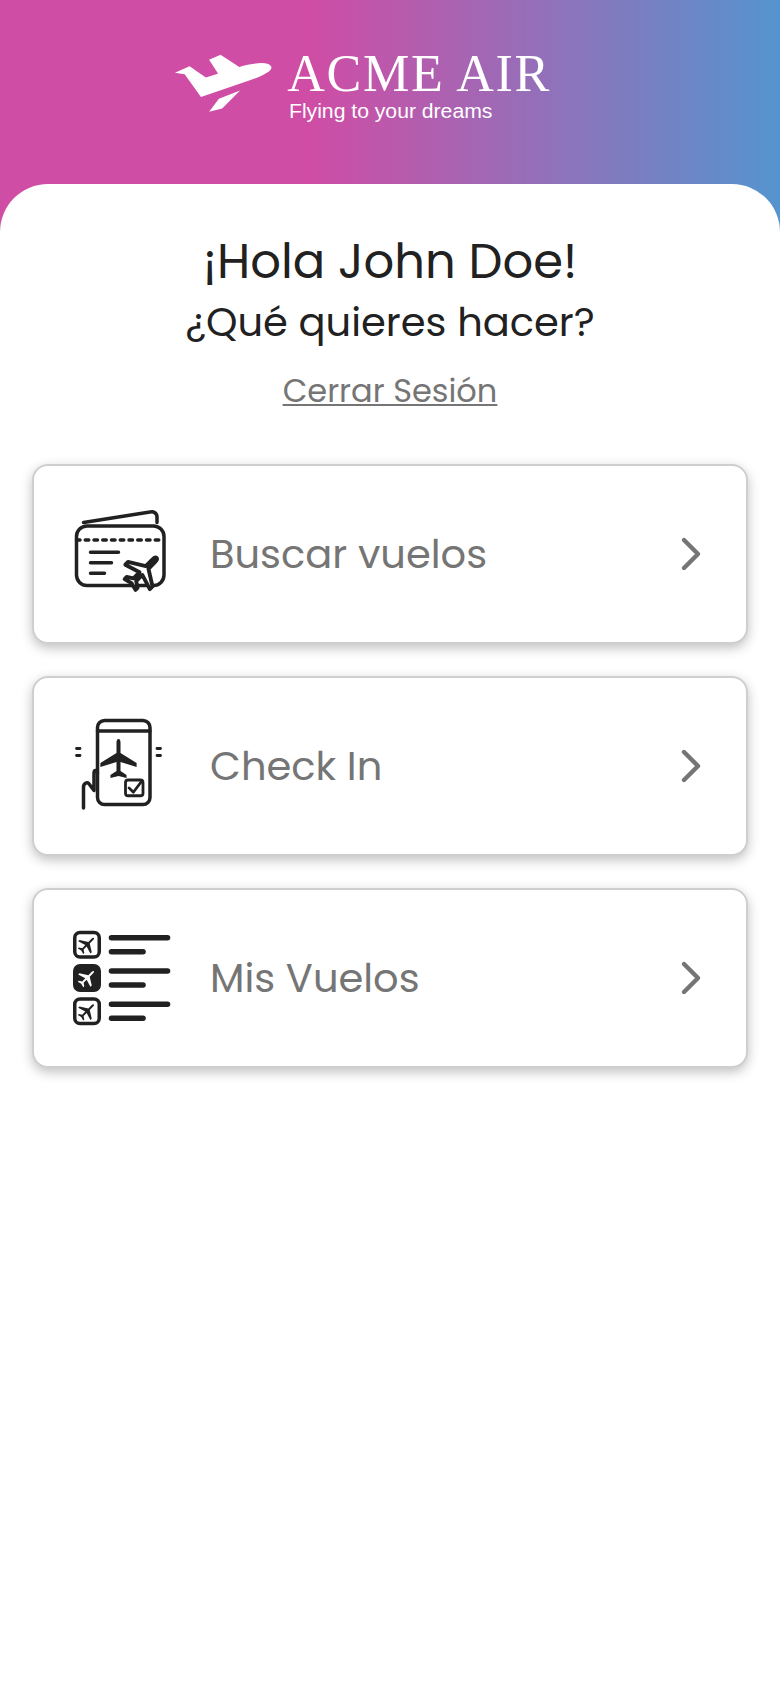
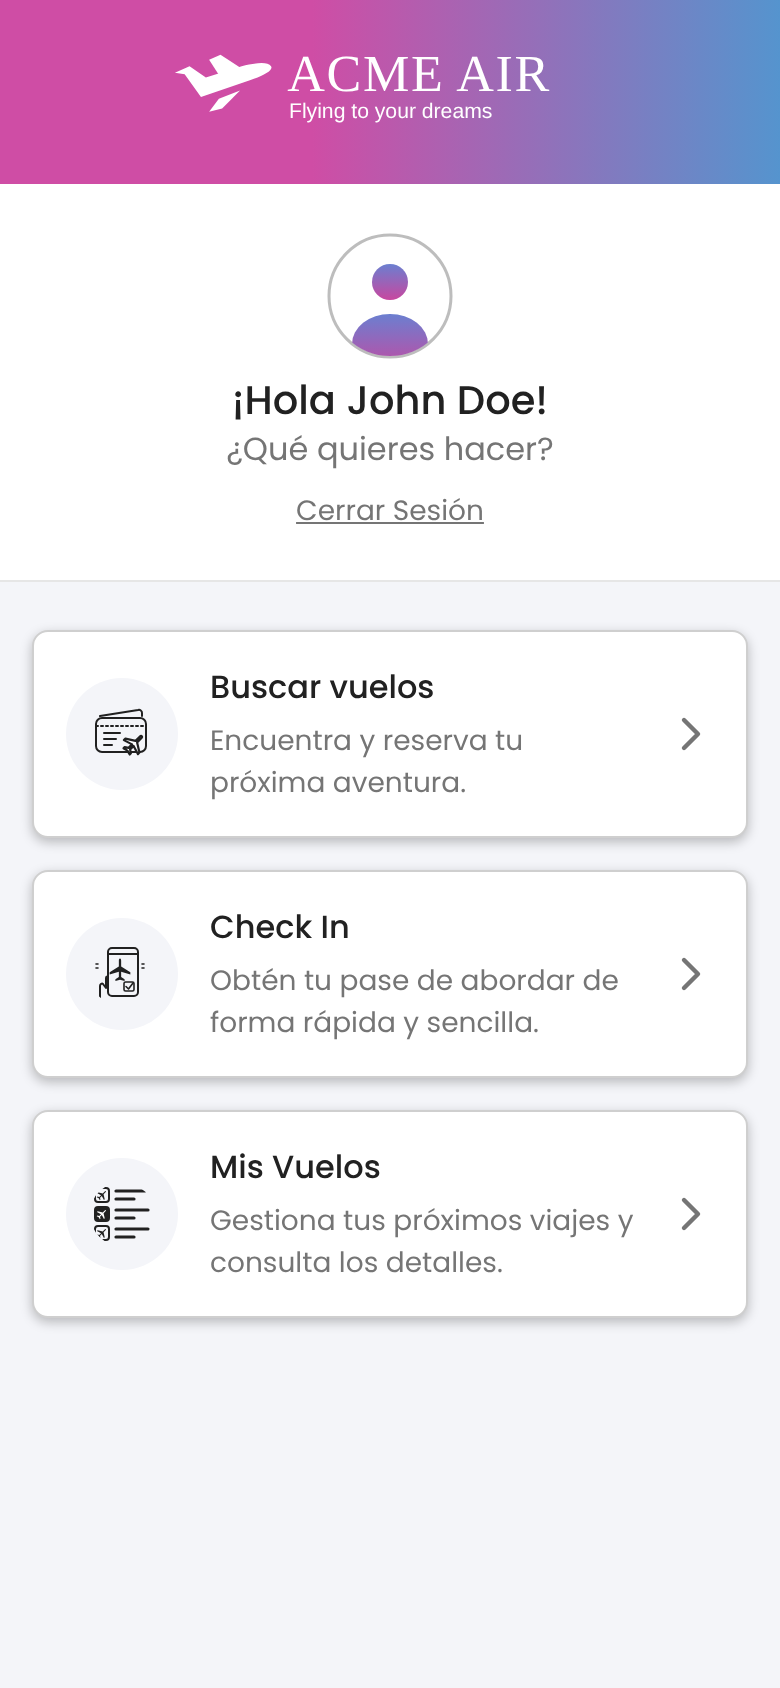
feat: menú con barra lateral adaptado a celular, tablet y escritorio
- Recupera el diseño del menú con perfil, accesos rápidos y tarjetas con
  el ícono en un círculo, y lo usa en todos los dispositivos.
- Celular: perfil arriba y tarjetas en una columna con descripción.
- Tablet (768 px): barra lateral de 14rem y tarjetas en dos columnas.
- Escritorio (1024 px): barra de 16rem, tarjetas más grandes, centradas
  en ancho y alto para no dejar espacio vacío.
- Pantallas grandes (1440 px): las tres tarjetas en una sola fila.
- Íconos alineados entre tarjetas aunque cambie el largo del texto.
- Actualiza las capturas del menú en el README.

diff --git a/css/responsive.css b/css/responsive.css
@@ -50,19 +50,181 @@
 
 /* --------------------------------------------------------------------------
    Menú principal · tablet y escritorio (768 px en adelante)
-   Se mantiene el mismo diseño del celular (hoja blanca centrada sobre el
-   degradado y opciones en lista) para que la vista sea igual en todos los
-   dispositivos. Solo se agrega la descripción debajo de cada opción.
+   El perfil pasa a ser una barra lateral a la izquierda y las tarjetas
+   ocupan el resto de la pantalla en una cuadrícula centrada en ancho y
+   alto: dos columnas y la tercera tarjeta a todo el ancho.
+   .menu usa display: contents para que sus hijos entren en la cuadrícula.
    -------------------------------------------------------------------------- */
 @media (min-width: 768px) {
+  .app--menu {
+    display: grid;
+    grid-template-columns: 14rem 1fr;
+    grid-template-rows: auto 1fr;
+    grid-template-areas:
+      "cabecera principal"
+      "perfil   principal";
+    padding: 0;
+  }
+
+  .app--menu .menu {
+    display: contents;
+  }
+
+  .app--menu .app-header {
+    grid-area: cabecera;
+    padding: var(--space-3);
+  }
+
+  .app--menu .app-header__logo {
+    width: 100%;
+    max-width: 12rem;
+    height: auto;
+  }
+
+  /* Barra lateral: perfil, accesos rápidos y cierre de sesión al final */
+  .menu__perfil {
+    grid-area: perfil;
+    padding: var(--space-4) var(--space-3);
+    border-bottom: 0;
+    border-right: 1px solid var(--color-divider);
+  }
+
+  .menu__avatar {
+    width: 4.5rem;
+    height: 4.5rem;
+  }
+
+  .menu__saludo {
+    font-size: var(--font-size-base);
+  }
+
+  .menu__pregunta {
+    margin-bottom: var(--space-4);
+    font-size: var(--font-size-sm);
+  }
+
+  .menu__nav {
+    display: block;
+    align-self: stretch;
+  }
+
+  .menu__nav-lista {
+    display: flex;
+    flex-direction: column;
+    gap: var(--space-1);
+  }
+
+  .menu__nav-enlace {
+    display: flex;
+    align-items: center;
+    gap: var(--space-2);
+    padding: var(--space-2) var(--space-3);
+    font-size: var(--font-size-sm);
+    color: var(--color-text);
+    text-align: left;
+    text-decoration: none;
+    border-radius: var(--radius-md);
+  }
+
+  .menu__nav-enlace:hover {
+    background-color: var(--menu-fondo);
+  }
+
+  .menu__nav-icono {
+    width: 1.5rem;
+    height: 1.5rem;
+  }
+
+  .menu__salir {
+    margin-top: auto;
+    padding-top: var(--space-4);
+  }
+
+  /* Tarjetas centradas en el espacio que queda a la derecha */
+  .menu__principal {
+    display: flex;
+    flex-direction: column;
+    justify-content: center;
+    grid-area: principal;
+    padding: var(--space-5) var(--space-4);
+  }
+
+  .menu__opciones {
+    display: grid;
+    grid-template-columns: repeat(2, 1fr);
+    gap: var(--space-4);
+    width: 100%;
+    max-width: 64rem;
+    margin: 0 auto;
+  }
+
+  .menu__opciones li:last-child {
+    grid-column: 1 / -1;
+  }
+
   .menu__opcion {
-    padding: var(--space-3) var(--space-4);
+    flex-direction: column;
+    justify-content: flex-start;
+    height: 100%;
+    padding: var(--space-4) var(--space-3);
+    text-align: center;
+  }
+
+  .menu__texto {
+    flex: 0 1 auto;
+  }
+
+  .menu__chevron {
+    display: none;
+  }
+}
+
+/* Escritorio: barra lateral más ancha y más aire alrededor de las tarjetas */
+@media (min-width: 1024px) {
+  .app--menu {
+    grid-template-columns: 16rem 1fr;
+    padding: 0;
+  }
+
+  .menu__principal {
+    padding: var(--space-5);
+  }
+
+  .menu__opcion {
+    padding: var(--space-5) var(--space-4);
+  }
+
+  .menu__icono {
+    width: 4rem;
+    height: 4rem;
+  }
+
+  .menu__titulo {
+    font-size: var(--font-size-lg);
   }
 
   .menu__descripcion {
-    display: block;
-    margin-top: var(--space-1);
-    font-size: var(--font-size-sm);
+    font-size: var(--font-size-base);
+  }
+}
+
+/* Pantallas grandes: las tres tarjetas en una fila para llenar el ancho */
+@media (min-width: 1440px) {
+  .app--menu {
+    grid-template-columns: 18rem 1fr;
+  }
+
+  .menu__principal {
+    padding: var(--space-5) calc(var(--space-5) * 2);
+  }
+
+  .menu__opciones {
+    grid-template-columns: repeat(3, 1fr);
+    max-width: 80rem;
+  }
+
+  .menu__opciones li:last-child {
+    grid-column: auto;
   }
 }
 

diff --git a/css/layout.css b/css/layout.css
@@ -103,28 +103,71 @@
 /* ===== B: menú y búsqueda (menu, buscar-vuelos) ===== */
 
 /* --------------------------------------------------------------------------
-   Menú principal (menu.html) · vista móvil
-   La descripción de cada opción se muestra desde tablet (ver responsive.css).
+   Menú principal (menu.html) · celular
+   Mismo diseño en todos los dispositivos: fondo gris claro, encabezado con
+   el degradado, perfil en blanco y opciones como tarjetas con el ícono en
+   un círculo. En celular el perfil va arriba y las tarjetas en una columna;
+   desde tablet el perfil pasa a ser una barra lateral (ver responsive.css).
    -------------------------------------------------------------------------- */
+.app--menu {
+  --menu-fondo: #f4f5f9;
+
+  background: var(--menu-fondo);
+}
+
+.app--menu .app-header {
+  background: var(--gradient-brand);
+}
+
+/* La hoja blanca del resto de vistas no se usa aquí */
+.app--menu .menu {
+  display: flex;
+  flex: 1;
+  flex-direction: column;
+  padding: 0;
+  background: none;
+  border-radius: 0;
+}
+
 .menu__perfil {
   display: flex;
   flex-direction: column;
   align-items: center;
-  margin-bottom: var(--space-4);
+  padding: var(--space-4) var(--space-3);
   text-align: center;
+  background-color: var(--color-surface);
+  border-bottom: 1px solid var(--color-divider);
 }
 
-.menu__descripcion {
-  display: none;
+.menu__avatar {
+  width: 4rem;
+  height: 4rem;
+  margin-bottom: var(--space-2);
 }
 
 .menu__saludo {
-  font-size: var(--font-size-xl);
+  font-size: var(--font-size-lg);
+  font-weight: var(--font-weight-medium);
 }
 
 .menu__pregunta {
   margin-bottom: var(--space-2);
-  font-size: var(--font-size-lg);
+  font-size: var(--font-size-base);
+  color: var(--color-text-muted);
+}
+
+/* Los accesos rápidos repiten las tarjetas: solo caben en la barra lateral */
+.menu__nav {
+  display: none;
+}
+
+.menu__salir {
+  font-size: var(--font-size-sm);
+}
+
+.menu__principal {
+  flex: 1;
+  padding: var(--space-4) var(--space-3);
 }
 
 .menu__opciones {
@@ -146,6 +189,9 @@
   flex-shrink: 0;
   width: 3.5rem;
   height: 3.5rem;
+  padding: 0.75rem;
+  background-color: var(--menu-fondo);
+  border-radius: 50%;
 }
 
 .menu__texto {
@@ -154,7 +200,15 @@
 
 .menu__titulo {
   display: block;
-  font-size: var(--font-size-lg);
+  font-size: var(--font-size-base);
+  font-weight: var(--font-weight-medium);
+  color: var(--color-text);
+}
+
+.menu__descripcion {
+  display: block;
+  margin-top: var(--space-1);
+  font-size: var(--font-size-sm);
 }
 
 .menu__chevron {
@@ -164,7 +218,8 @@
 }
 
 /* Interacción: las tarjetas crecen un poco al pasar el cursor */
-.menu__opcion {
+.menu__opcion,
+.menu__nav-enlace {
   transition: transform var(--transition-base), box-shadow var(--transition-base),
     background-color var(--transition-base);
 }
@@ -179,7 +234,8 @@
 }
 
 @media (prefers-reduced-motion: reduce) {
-  .menu__opcion {
+  .menu__opcion,
+  .menu__nav-enlace {
     transition: none;
   }
 

diff --git a/menu.html b/menu.html
@@ -20,16 +20,42 @@
   <link rel="stylesheet" href="css/responsive.css">
 </head>
 
-<body class="app">
+<body class="app app--menu">
   <header class="app-header">
     <img class="app-header__logo" src="img/logo-blanco.svg" alt="ACME AIR · Flying to your dreams">
   </header>
 
   <div class="app__card menu">
-    <!-- Perfil: saludo y cierre de sesión -->
+    <!-- Perfil: saludo, accesos rápidos y cierre de sesión (barra lateral desde tablet) -->
     <aside class="menu__perfil">
+      <img class="menu__avatar" src="img/icons/avatar.svg" alt="">
       <h1 class="menu__saludo">¡Hola John Doe!</h1>
       <p class="menu__pregunta">¿Qué quieres hacer?</p>
+
+      <!-- Accesos rápidos: se muestran desde tablet -->
+      <nav class="menu__nav" aria-label="Accesos rápidos">
+        <ul class="menu__nav-lista">
+          <li>
+            <a class="menu__nav-enlace" href="buscar-vuelos.html">
+              <img class="menu__nav-icono" src="img/icons/buscar-vuelos.svg" alt="">
+              Buscar vuelos
+            </a>
+          </li>
+          <li>
+            <a class="menu__nav-enlace" href="checkin.html">
+              <img class="menu__nav-icono" src="img/icons/checkin.svg" alt="">
+              Check In
+            </a>
+          </li>
+          <li>
+            <a class="menu__nav-enlace" href="mis-vuelos.html">
+              <img class="menu__nav-icono" src="img/icons/mis-vuelos.svg" alt="">
+              Mis Vuelos
+            </a>
+          </li>
+        </ul>
+      </nav>
+
       <a class="link link--muted menu__salir" href="index.html">Cerrar Sesión</a>
     </aside>
 

diff --git a/README.md b/README.md
@@ -91,7 +91,7 @@ Las 9 vistas del enunciado están integradas en `main` y la navegación simulada
 
 ### Tablet y escritorio
 
-**Menú principal (escritorio, 1280 px):** el mismo diseño del celular, centrado sobre el degradado y con la descripción de cada opción.
+**Menú principal (escritorio, 1280 px):** barra lateral con el perfil y las tarjetas de opciones en una cuadrícula centrada; en tablet se mantiene la barra lateral y en celular el perfil pasa arriba.
 
 ![Menú principal en escritorio](docs/capturas/menu-escritorio.png)
 
